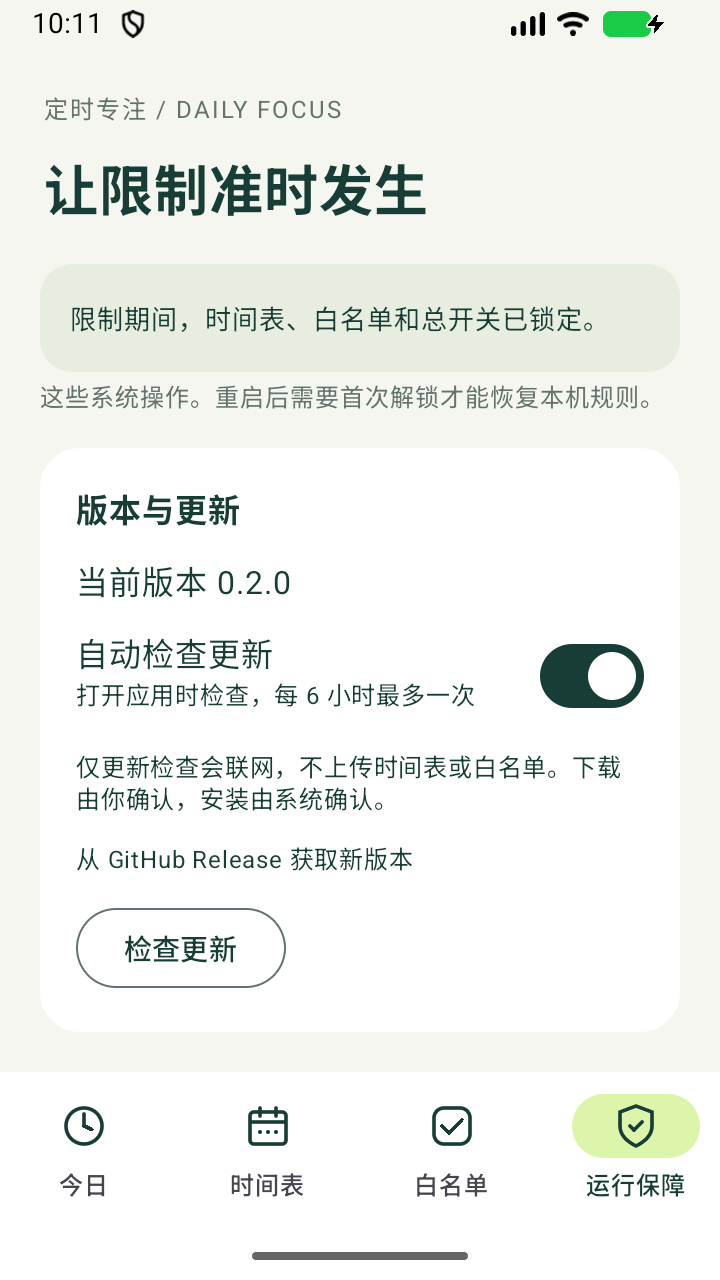
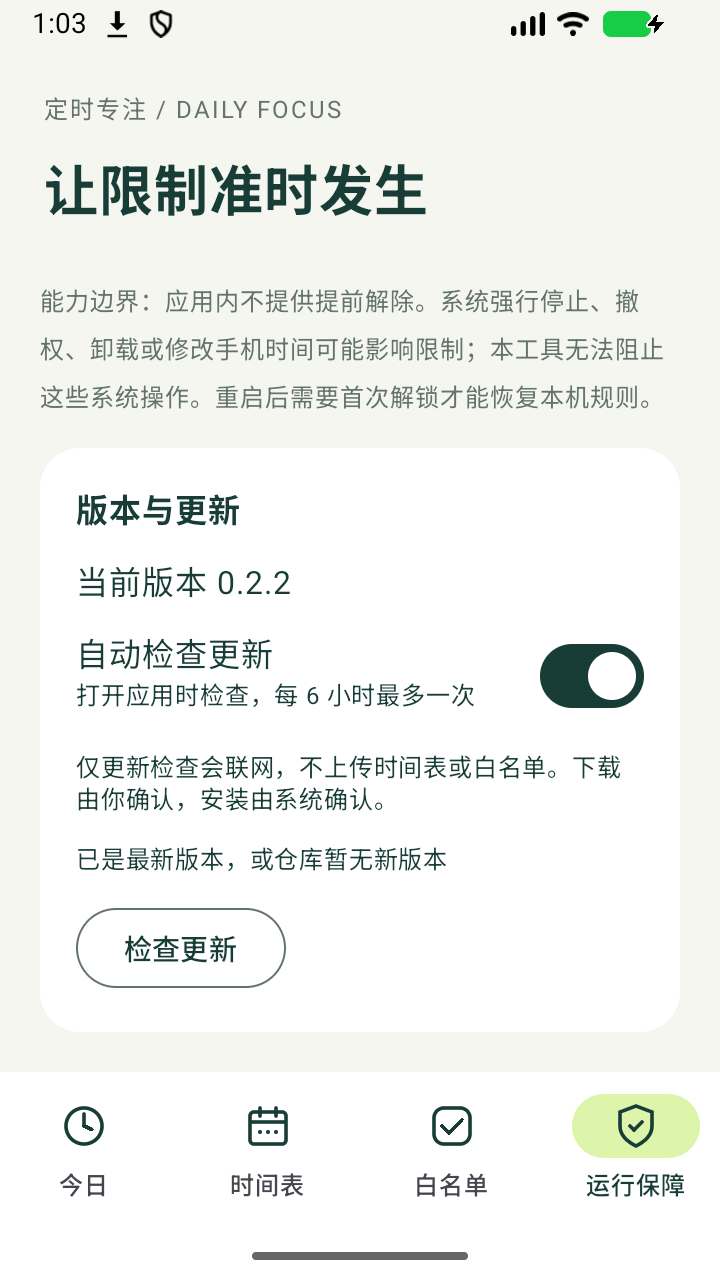
Record real stable upgrade, preserved settings and final install checks

diff --git a/docs/INSTALL_REVIEW.md b/docs/INSTALL_REVIEW.md
@@ -1,6 +1,6 @@
 # 安装检查与待审核事项
 
-截至 2026-10-30，v0.2.0 和 v0.2.1 均未通过 Google Android 模拟器中的 Play Protect 联网扫描。两者保持预发布，普通自动更新不会接收它们。用户明确选择个人自用、不提交 Google 申诉，后续验收记录区分“扫描分类”和“用户确认后的实际安装”。
+截至 2026-10-30，v0.2.0、v0.2.1、v0.2.2 均被 Google Android 模拟器中的 Play Protect 联网扫描标记。前两者保持预发布；v0.2.2 按个人自用发布，普通更新接收该正式版。本项目不提交 Google 申诉，验证记录区分“扫描分类”和“用户确认后的实际安装”。
 
 ## v0.2.1 的具体证据
 
@@ -18,6 +18,15 @@
 2026-10-30 11:08（模拟器 Asia/Shanghai），在系统提供的告警详情中主动选择继续安装后，安装器显示 `App updated`。`dumpsys package` 确认为 versionCode 3 / versionName 0.2.1，证明应用内下载的真实 GitHub 附件已完成覆盖安装。没有关闭或修改 Play Protect 扫描设置。截图：`screenshots/v0.2/personal-install-v021.png`。
 
 这个结果只证明个人主动确认后的安装流程可用，不改变扫描分类，也不能据此称为误报或通过 Google 审核。用户不要求提交申诉，因此未向 Google 发送复核申请。
+
+## v0.2.2 最终更新验证
+
+- GitHub Actions 构建与签名发布运行 `40996128477` 成功；仓库检查 `40996124832` 成功。
+- 自动同步正式更新信息运行 `40997069864` 和手动复核运行 `40997071536` 均成功，`updates/latest.json` 指向正式版 v0.2.2。
[1 lines of base64/hex data omitted]
+- 在真实发布的 v0.2.1 中检查更新，显示 v0.2.2，应用内下载、校验后进入系统安装。下载暂停时有网络等待提示，恢复网络后可继续。最终安装阶段使用了电脑已有代理供模拟器联网，不能据此保证所有网络下直连 GitHub 都可用。
+- 2026-10-30 12:53:37（模拟器本地时间）扫描再次返回 `POTENTIALLY_UNWANTED / generic_malware`。主动在系统告警详情中确认后，安装器显示 App updated，实际安装版本递增为 versionCode 4 / 0.2.2。未关闭扫描设置。
+- 打开新版后，自定义 `Upgrade-QA` 时段、排除星期五的重复规则、时钟白名单、已启用状态均保留；手动检查显示已是最新版本。截图位于 `screenshots/v0.2/` 的 `stable-update-found`、`personal-install-v022`、`after-upgrade-rules`、`after-upgrade-allowlist` 和 `updates`。
 
 ## 已完成的源码检查
 

diff --git a/README.md b/README.md
@@ -2,9 +2,9 @@
 
 **一次安排，到点专注，结束恢复。** 以每周时间表为核心的 Android 自律工具，无需每天手动开启番茄钟。
 
-[版本与下载](https://github.com/zhuquan7237/scheduled-focus/releases) · [使用与隐私](PRIVACY.md) · [反馈问题](https://github.com/zhuquan7237/scheduled-focus/issues) · [参与开发](CONTRIBUTING.md)
+[下载最新版 v0.2.2](https://github.com/zhuquan7237/scheduled-focus/releases/latest) · [使用与隐私](PRIVACY.md) · [反馈问题](https://github.com/zhuquan7237/scheduled-focus/issues) · [参与开发](CONTRIBUTING.md)
 
-> 个人自用版本：v0.2.0 和 v0.2.1 曾被 Google Play Protect 联网扫描标记，原因尚未确认，不能称为误报或代表通过安全审核。用户选择个人自用后，已在模拟器中通过系统提供的手动确认完成覆盖安装，没有关闭系统保护。详见 [安装检查记录](docs/INSTALL_REVIEW.md)。
+> 个人自用版本：包括 v0.2.2 在内的版本曾被 Google Play Protect 联网扫描标记，原因尚未确认，不能称为误报或代表通过安全审核。已在模拟器中通过系统提供的手动确认完成 0.2.1 → 0.2.2 覆盖安装，没有关闭系统保护；时间表和白名单保留。详见 [安装检查记录](docs/INSTALL_REVIEW.md)。
 
 | 今日 | 时间表 | 白名单 | 运行保障与更新 |
 | --- | --- | --- | --- |
